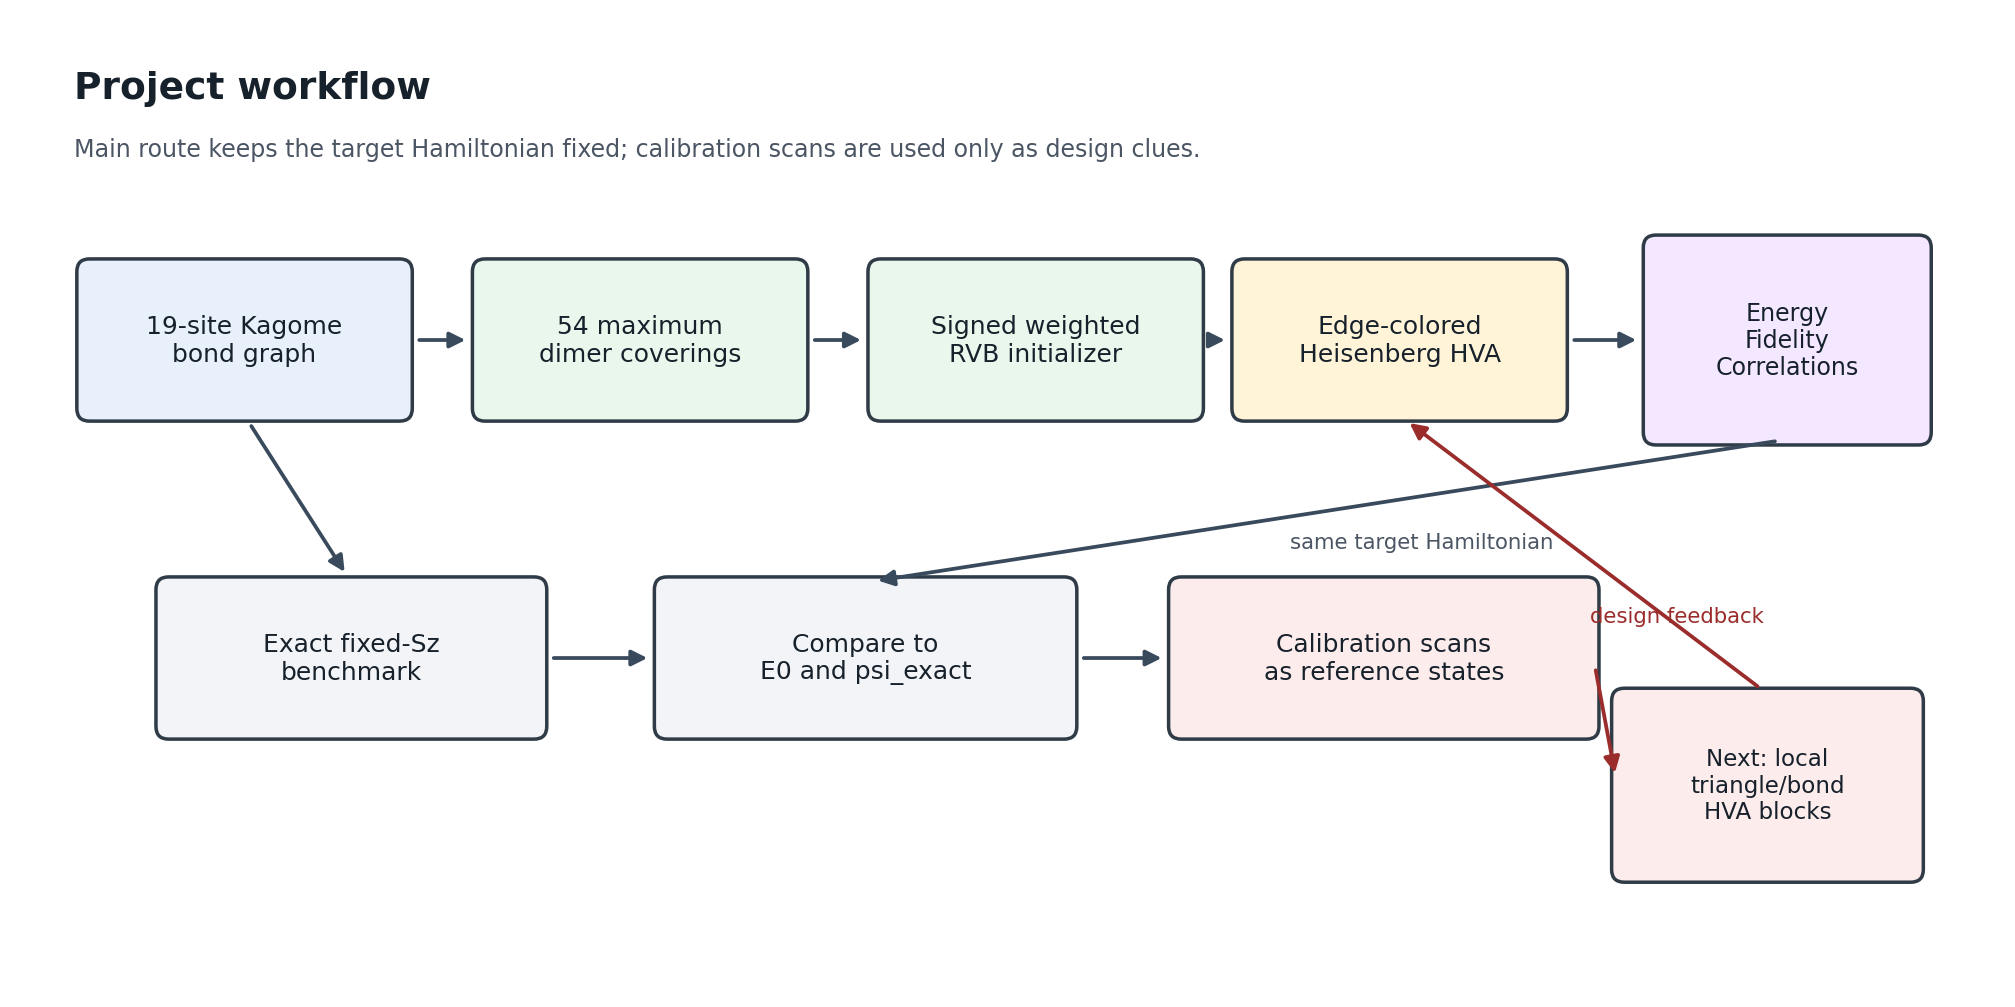
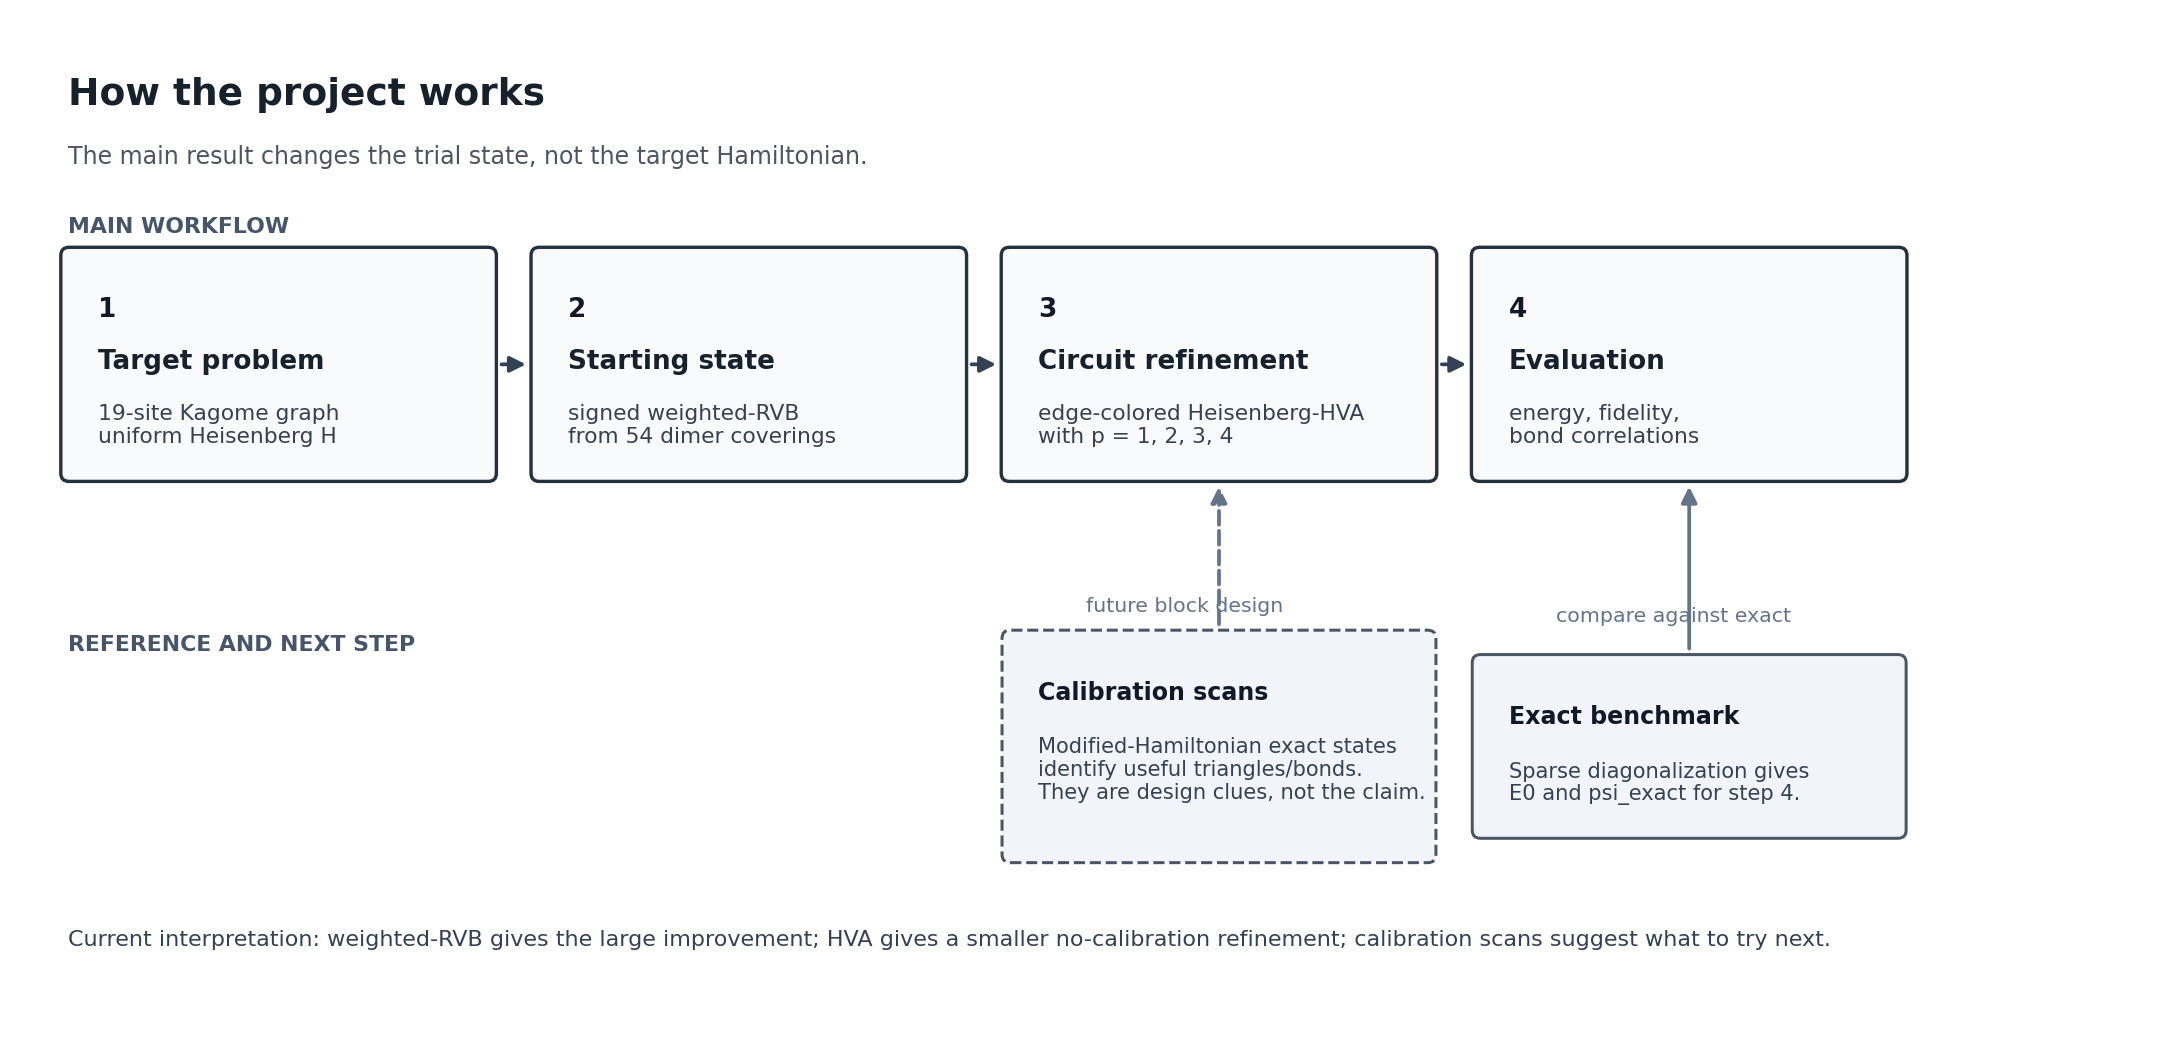
Simplify workflow flowchart

diff --git a/scripts/make_figures.py b/scripts/make_figures.py
@@ -336,43 +336,80 @@ def plot_calibration_scatter(final_rows: list[dict[str, str]], output: Path, *, 
 
 
 def plot_workflow_flowchart(output: Path) -> None:
-    fig, ax = plt.subplots(figsize=(11.2, 5.6))
-    ax.set_xlim(0, 12.4)
-    ax.set_ylim(0, 6)
+    fig, ax = plt.subplots(figsize=(12.0, 5.9))
+    ax.set_xlim(0, 12)
+    ax.set_ylim(0, 6.2)
     ax.axis("off")
 
-    def add_box(
-        xy: tuple[float, float],
-        size: tuple[float, float],
-        text: str,
+    def add_step_box(
+        x: float,
+        y: float,
+        number: str,
+        title: str,
+        detail: str,
         *,
+        width: float = 2.55,
+        height: float = 1.35,
         facecolor: str,
-        edgecolor: str = "#2f3b46",
-        fontsize: int = 10,
     ) -> tuple[float, float, float, float]:
-        x, y = xy
-        w, h = size
         box = FancyBboxPatch(
             (x, y),
-            w,
-            h,
-            boxstyle="round,pad=0.035,rounding_size=0.08",
-            linewidth=1.4,
-            edgecolor=edgecolor,
+            width,
+            height,
+            boxstyle="round,pad=0.045,rounding_size=0.05",
+            linewidth=1.35,
+            edgecolor="#24313f",
             facecolor=facecolor,
         )
         ax.add_patch(box)
+        ax.text(x + 0.18, y + height - 0.26, number, ha="left", va="top", fontsize=10.5, fontweight="bold", color="#111827")
         ax.text(
-            x + w / 2,
-            y + h / 2,
-            text,
-            ha="center",
-            va="center",
-            fontsize=fontsize,
+            x + 0.18,
+            y + height - 0.58,
+            title,
+            ha="left",
+            va="top",
+            fontsize=10.5,
+            fontweight="bold",
             color="#17212b",
+        )
+        ax.text(
+            x + 0.18,
+            y + height - 0.92,
+            detail,
+            ha="left",
+            va="top",
+            fontsize=8.7,
+            color="#374151",
             linespacing=1.18,
         )
-        return (x, y, w, h)
+        return (x, y, width, height)
+
+    def add_note_box(
+        x: float,
+        y: float,
+        title: str,
+        detail: str,
+        *,
+        width: float,
+        height: float,
+        facecolor: str,
+        dashed: bool = False,
+    ) -> tuple[float, float, float, float]:
+        box = FancyBboxPatch(
+            (x, y),
+            width,
+            height,
+            boxstyle="round,pad=0.04,rounding_size=0.05",
+            linewidth=1.2,
+            linestyle="--" if dashed else "-",
+            edgecolor="#4b5563",
+            facecolor=facecolor,
+        )
+        ax.add_patch(box)
+        ax.text(x + 0.18, y + height - 0.27, title, ha="left", va="top", fontsize=9.5, fontweight="bold", color="#111827")
+        ax.text(x + 0.18, y + height - 0.62, detail, ha="left", va="top", fontsize=8.4, color="#374151", linespacing=1.16)
+        return (x, y, width, height)
 
     def right(box: tuple[float, float, float, float]) -> tuple[float, float]:
         x, y, w, h = box
@@ -390,7 +427,13 @@ def plot_workflow_flowchart(output: Path) -> None:
         x, y, w, _ = box
         return (x + w / 2, y)
 
-    def arrow(start: tuple[float, float], end: tuple[float, float], *, color: str = "#384a5c") -> None:
+    def arrow(
+        start: tuple[float, float],
+        end: tuple[float, float],
+        *,
+        color: str = "#334155",
+        dashed: bool = False,
+    ) -> None:
         ax.add_patch(
             FancyArrowPatch(
                 start,
@@ -399,72 +442,98 @@ def plot_workflow_flowchart(output: Path) -> None:
                 mutation_scale=13,
                 linewidth=1.5,
                 color=color,
+                linestyle="--" if dashed else "-",
                 shrinkA=5,
                 shrinkB=5,
             )
         )
 
     ax.text(
-        0.3,
-        5.55,
-        "Project workflow",
+        0.25,
+        5.72,
+        "How the project works",
         fontsize=15,
         fontweight="bold",
         color="#17212b",
     )
     ax.text(
-        0.3,
-        5.18,
-        "Main route keeps the target Hamiltonian fixed; calibration scans are used only as design clues.",
+        0.25,
+        5.36,
+        "The main result changes the trial state, not the target Hamiltonian.",
         fontsize=9.5,
         color="#4b5563",
     )
+    ax.text(0.25, 4.93, "MAIN WORKFLOW", fontsize=8.8, fontweight="bold", color="#475569")
 
-    graph = add_box((0.35, 3.55), (2.05, 0.95), "19-site Kagome\nbond graph", facecolor="#e8f1fb")
-    dimers = add_box((2.85, 3.55), (2.05, 0.95), "54 maximum\ndimer coverings", facecolor="#eaf7ed")
-    rvb = add_box((5.35, 3.55), (2.05, 0.95), "Signed weighted\nRVB initializer", facecolor="#eaf7ed")
-    hva = add_box((7.65, 3.55), (2.05, 0.95), "Edge-colored\nHeisenberg HVA", facecolor="#fff3d8")
-    diagnostics = add_box(
-        (10.25, 3.4),
-        (1.75, 1.25),
-        "Energy\nFidelity\nCorrelations",
-        facecolor="#f3e8ff",
-        fontsize=9.5,
+    target = add_step_box(
+        0.25,
+        3.45,
+        "1",
+        "Target problem",
+        "19-site Kagome graph\nuniform Heisenberg H",
+        facecolor="#f8fafc",
+    )
+    rvb = add_step_box(
+        3.10,
+        3.45,
+        "2",
+        "Starting state",
+        "signed weighted-RVB\nfrom 54 dimer coverings",
+        facecolor="#f8fafc",
+    )
+    hva = add_step_box(
+        5.95,
+        3.45,
+        "3",
+        "Circuit refinement",
+        "edge-colored Heisenberg-HVA\nwith p = 1, 2, 3, 4",
+        facecolor="#f8fafc",
+    )
+    evaluate = add_step_box(
+        8.80,
+        3.45,
+        "4",
+        "Evaluation",
+        "energy, fidelity,\nbond correlations",
+        facecolor="#f8fafc",
     )
 
-    exact = add_box((0.85, 1.55), (2.4, 0.95), "Exact fixed-Sz\nbenchmark", facecolor="#f2f4f7")
-    compare = add_box(
-        (4.0, 1.55),
-        (2.6, 0.95),
-        "Compare to\nE0 and psi_exact",
-        facecolor="#f2f4f7",
-    )
-    calib = add_box(
-        (7.25, 1.55),
-        (2.65, 0.95),
-        "Calibration scans\nas reference states",
-        facecolor="#fdecec",
-    )
-    next_step = add_box(
-        (10.05, 0.65),
-        (1.9, 1.15),
-        "Next: local\ntriangle/bond\nHVA blocks",
-        facecolor="#fdecec",
-        fontsize=9.2,
-    )
-
-    for first, second in [(graph, dimers), (dimers, rvb), (rvb, hva), (hva, diagnostics)]:
+    for first, second in [(target, rvb), (rvb, hva), (hva, evaluate)]:
         arrow(right(first), left(second))
 
-    arrow(bottom(graph), top(exact))
-    arrow(right(exact), left(compare))
-    arrow(bottom(diagnostics), top(compare))
-    arrow(right(compare), left(calib))
-    arrow(right(calib), left(next_step), color="#9b2c2c")
-    arrow(top(next_step), bottom(hva), color="#9b2c2c")
+    ax.text(0.25, 2.36, "REFERENCE AND NEXT STEP", fontsize=8.8, fontweight="bold", color="#475569")
+    exact = add_note_box(
+        8.80,
+        1.25,
+        "Exact benchmark",
+        "Sparse diagonalization gives\nE0 and psi_exact for step 4.",
+        width=2.55,
+        height=1.05,
+        facecolor="#f1f5f9",
+    )
+    calibration = add_note_box(
+        5.95,
+        1.10,
+        "Calibration scans",
+        "Modified-Hamiltonian exact states\nidentify useful triangles/bonds.\nThey are design clues, not the claim.",
+        width=2.55,
+        height=1.35,
+        facecolor="#f1f5f9",
+        dashed=True,
+    )
 
-    ax.text(7.98, 2.72, "same target Hamiltonian", fontsize=8.5, color="#4b5563")
-    ax.text(9.88, 2.25, "design feedback", fontsize=8.5, color="#9b2c2c")
+    arrow(top(exact), bottom(evaluate), color="#64748b")
+    arrow(top(calibration), bottom(hva), color="#64748b", dashed=True)
+    ax.text(6.42, 2.60, "future block design", fontsize=8.2, color="#64748b")
+    ax.text(9.27, 2.54, "compare against exact", fontsize=8.2, color="#64748b")
+
+    ax.text(
+        0.25,
+        0.55,
+        "Current interpretation: weighted-RVB gives the large improvement; HVA gives a smaller no-calibration refinement; calibration scans suggest what to try next.",
+        fontsize=8.9,
+        color="#334155",
+    )
 
     fig.tight_layout()
     fig.savefig(output, dpi=180)

diff --git a/report/kagome_hva_report.tex b/report/kagome_hva_report.tex
@@ -56,12 +56,12 @@ This report studies the following workflow:
 \]
 The central question is whether improving the variational state structure can approach the exact 19-site ground state without relying on Hamiltonian calibration.  The answer in this proof-of-concept is cautiously positive: the no-calibration HVA improves energy, fidelity, magnetization, entropy, and bond-correlation diagnostics, but it remains above the best exact calibrated-Hamiltonian reference states.
 
-Figure~\ref{fig:workflow-flowchart} gives the project flow.  The upper path is the main no-calibration workflow: start from the 19-site bond graph, construct the signed weighted-RVB initializer, refine it with edge-colored Heisenberg-HVA layers, and evaluate energy, fidelity, and correlation diagnostics.  The lower path is the reference workflow: exact diagonalization supplies $E_0$ and $\psi_{\rm exact}$, while calibration scans are used as diagnostic reference states and as design feedback for future local HVA blocks.
+Figure~\ref{fig:workflow-flowchart} gives the project flow as four numbered steps: define the fixed 19-site Kagome target Hamiltonian, construct the signed weighted-RVB initializer, refine it with edge-colored Heisenberg-HVA layers, and evaluate energy, fidelity, and correlation diagnostics.  The support boxes clarify what is used for interpretation: exact diagonalization supplies $E_0$ and $\psi_{\rm exact}$, while calibration scans are treated only as diagnostic reference states and design feedback for future local HVA blocks.
 
 \begin{figure}[H]
 \centering
 \includegraphics[width=\textwidth]{workflow_flowchart.png}
-\caption{Project flowchart.  The main proof-of-concept keeps the target Hamiltonian fixed and improves the variational state through weighted-RVB initialization followed by Heisenberg-HVA refinement.  Exact diagonalization provides the benchmark, and calibration scans provide reference-state and ansatz-design clues rather than replacing the no-calibration workflow.}
+\caption{Project flowchart.  The numbered boxes are the actual no-calibration workflow: fixed target Hamiltonian, weighted-RVB starting state, Heisenberg-HVA refinement, and exact-state evaluation.  Exact diagonalization provides the benchmark.  Calibration scans provide reference-state and ansatz-design clues, not a replacement for the no-calibration workflow.}
 \label{fig:workflow-flowchart}
 \end{figure}
 

diff --git a/report/report_1_initial_report.tex b/report/report_1_initial_report.tex
@@ -49,12 +49,12 @@ E=\hvaE,\qquad F=\hvaF
 \]
 at HVA depth $p=4$.
 
-Figure~\ref{fig:workflow-flowchart} summarizes the project flow.  The main route is the no-calibration path from the 19-site bond graph to weighted-RVB initialization, Heisenberg-HVA refinement, and exact benchmark diagnostics.  The lower branch shows the exact-reference and calibration-scan information used to interpret results and design the next local HVA blocks.
+Figure~\ref{fig:workflow-flowchart} summarizes the project in four steps: define the fixed 19-site target Hamiltonian, build a signed weighted-RVB starting state, refine it with edge-colored Heisenberg-HVA layers, and evaluate the result against exact energy, fidelity, and correlation diagnostics.  The two support boxes underneath are not extra claims; exact diagonalization supplies the benchmark, while calibration scans only suggest future local HVA blocks.
 
 \begin{figure}[htbp]
 \centering
 \includegraphics[width=\linewidth]{workflow_flowchart.png}
-\caption{Project flowchart.  The upper path is the main no-calibration workflow.  The lower path supplies the exact benchmark and calibration-reference diagnostics.  Calibration scans are treated as design feedback for future triangle or bond HVA blocks, not as a replacement for the fixed target Hamiltonian.}
+\caption{Project flowchart.  The numbered boxes are the actual no-calibration workflow.  Exact diagonalization supplies the benchmark for the evaluation step.  Calibration scans are included only as future design guidance for local triangle or bond HVA blocks; they do not replace the fixed target Hamiltonian.}
 \label{fig:workflow-flowchart}
 \end{figure}
 